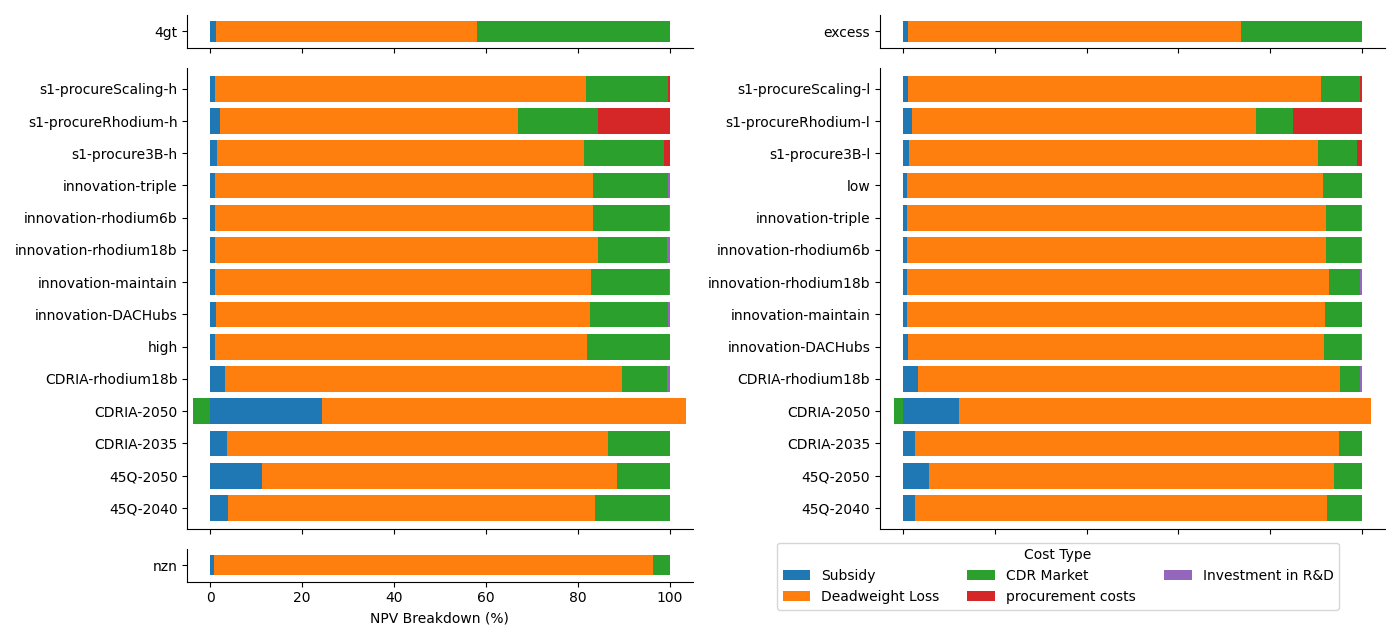
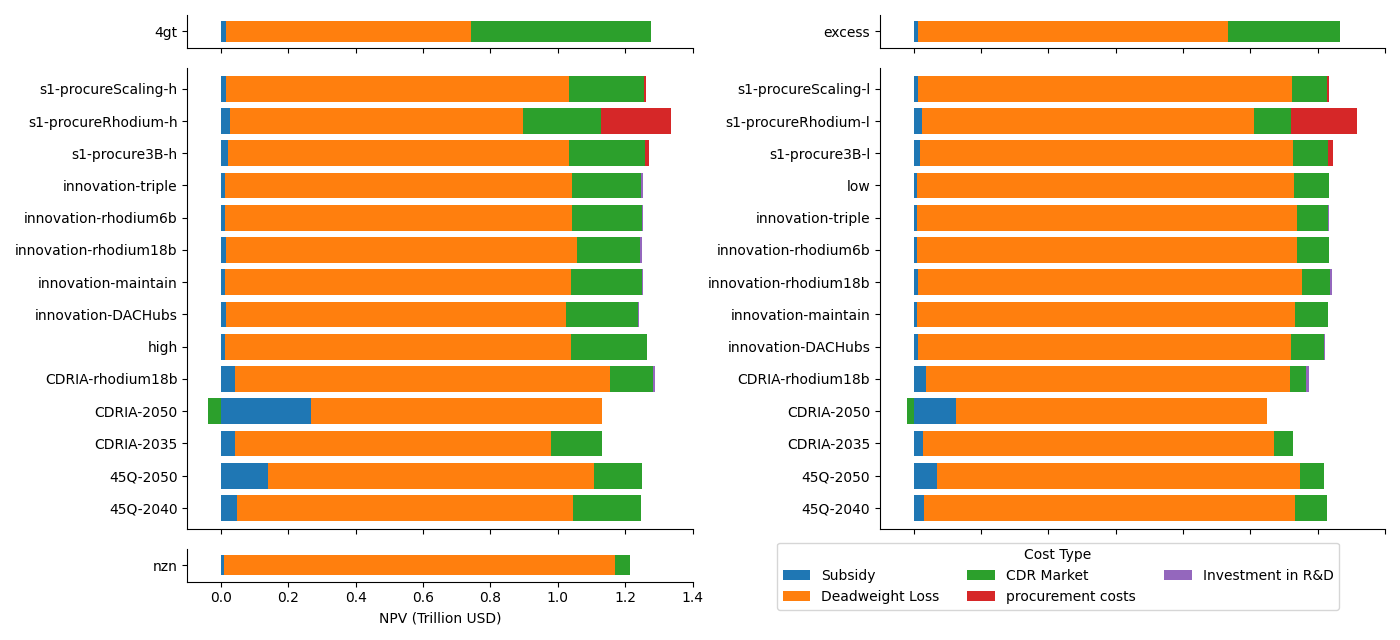
convert from % to actual NPV

diff --git a/supplementary_figures.py b/supplementary_figures.py
@@ -66,7 +66,7 @@ def npv_breakdown():
     plot_df = CDR.pivot_table(
         index=['baseline', 'scenario', 'CDR (Mt)'],
         columns='cost_type',
-        values='percentage'
+        values='npv_0.12'
     ).reset_index()
 
     # 2. Setup the GridSpec with height ratios
@@ -101,7 +101,7 @@ def npv_breakdown():
 
         subset[cost_categories].plot(kind='barh', stacked=True, ax=ax, legend=False, width=0.8)
         ax.set_ylabel('')
-        ax.set_xlim(-5, 105)  # Hard-code x-axis limit
+        ax.set_xlim(-.1, 1.4)  # Hard-code x-axis limit
         # Remove the top and right lines
         ax.spines['top'].set_visible(False)
         ax.spines['right'].set_visible(False)
@@ -111,7 +111,7 @@ def npv_breakdown():
             plt.setp(ax.get_xticklabels(), visible=False)
             ax.set_xlabel('')
         else:
-            ax.set_xlabel('NPV Breakdown (%)')
+            ax.set_xlabel('NPV (Trillion USD)')
 
     handles, labels = main_ax.get_legend_handles_labels()
     fig.legend(handles, labels, title='Cost Type', ncol=3, loc='center left', bbox_to_anchor=(0.55, 0.1))
